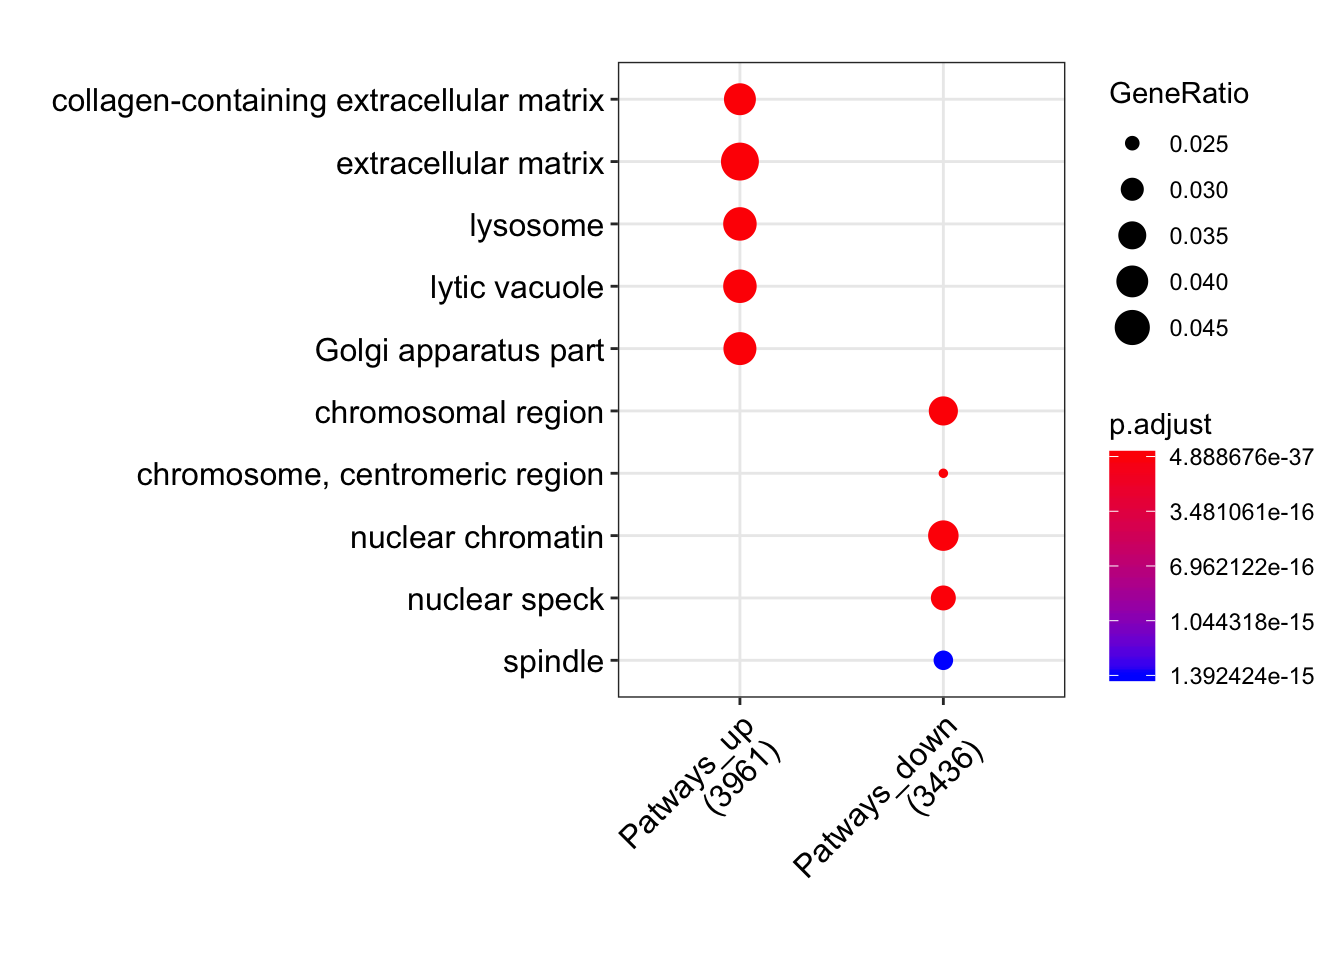
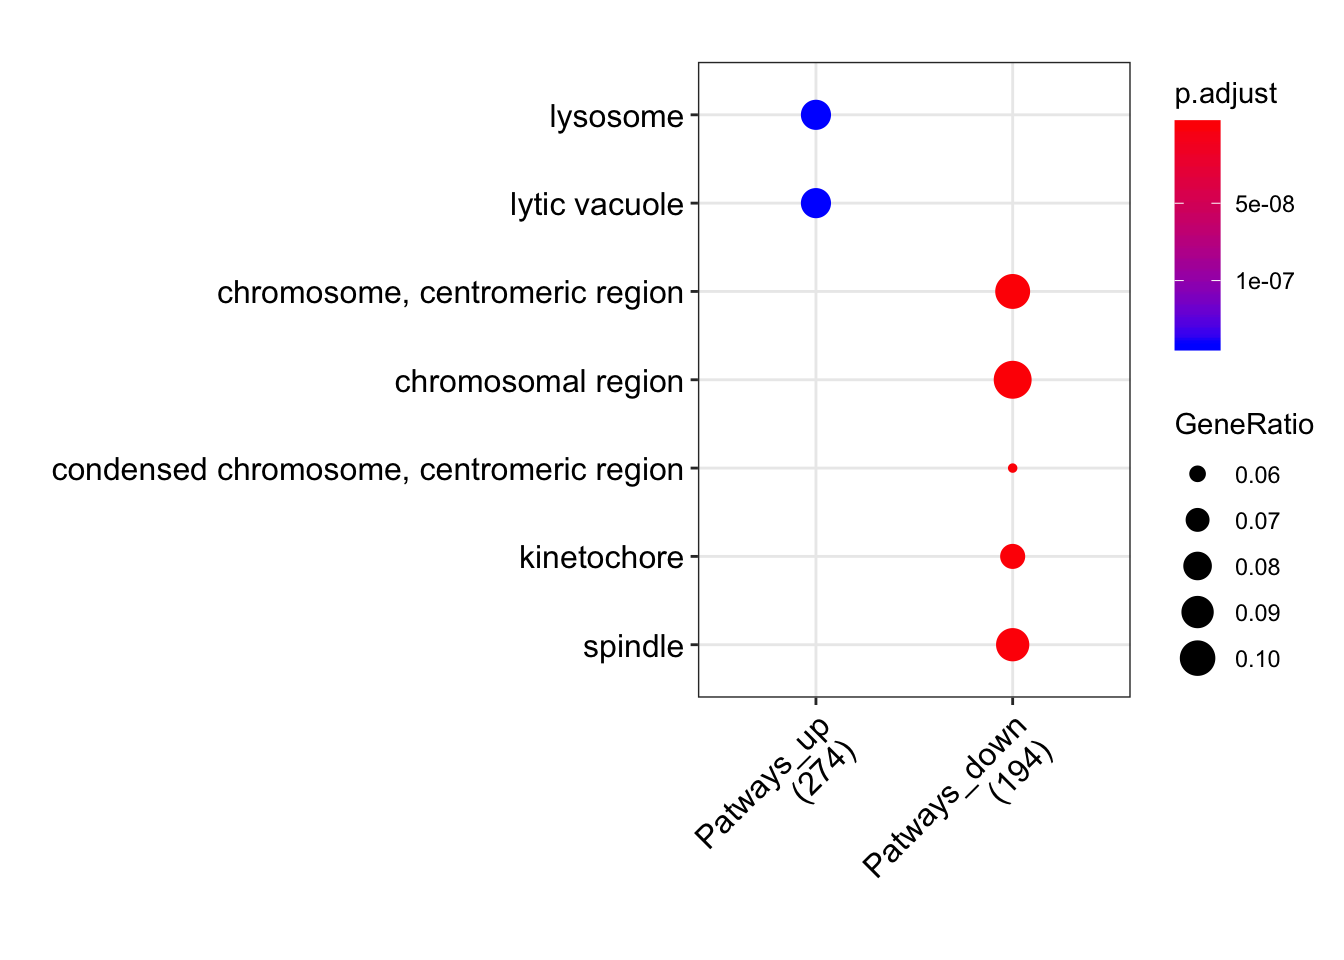
Updated legend on heatmaps and fixed CC pathway results for d9 vs day 5

diff --git a/Bulk_pathway_analysis.html b/Bulk_pathway_analysis.html
@@ -512,12 +512,12 @@ MinMax &lt;-<span class="st"> </span><span class="cf">function</span>(data, min,
   <span class="kw">return</span>(data2)
 }
 
-counts_scaled_sig_mef_id_upDown =<span class="st"> </span><span class="kw">MinMax</span>(counts_scaled_sig_mef_id_upDown, <span class="op">-</span><span class="fl">2.5</span>, <span class="fl">2.5</span>)
+counts_scaled_sig_mef_id_upDown =<span class="st"> </span><span class="kw">MinMax</span>(counts_scaled_sig_mef_id_upDown, <span class="op">-</span><span class="dv">2</span>, <span class="dv">2</span>)
 mycol &lt;-<span class="st"> </span><span class="kw">colorpanel</span>(<span class="dv">100</span>, <span class="st">&quot;purple&quot;</span>, <span class="st">&quot;black&quot;</span>, <span class="st">&quot;yellow&quot;</span>)
 plot_heatmaps &lt;-<span class="st"> </span><span class="cf">function</span>(x, x_dataFrame) {
   plot &lt;-<span class="st"> </span><span class="kw">pheatmap</span>(<span class="kw">as.matrix</span>(counts_scaled_sig_mef_id_upDown[<span class="kw">rownames</span>(x),<span class="kw">rownames</span>(x_dataFrame)]),
                                       <span class="dt">col=</span>mycol, <span class="dt">show_colnames =</span> F, <span class="dt">annotation_col=</span>x_dataFrame,
-                                      <span class="dt">labels_col =</span> x_dataFrame[,<span class="dv">1</span>], <span class="dt">cutree_rows =</span> <span class="dv">2</span>, <span class="dt">annotation_names_row =</span> F,
+                                      <span class="dt">labels_col =</span> x_dataFrame[,<span class="dv">1</span>], <span class="dt">cutree_rows =</span> <span class="dv">2</span>, <span class="dt">annotation_names_row =</span> F, <span class="dt">scale =</span> <span class="st">&quot;row&quot;</span>,
                                       <span class="dt">show_rownames =</span> F, <span class="dt">cluster_cols =</span> F,
                                       <span class="dt">clustering_distance_rows =</span> <span class="st">&quot;correlation&quot;</span>,
                                       <span class="dt">clustering_method =</span> <span class="st">&quot;ward.D2&quot;</span>, <span class="dt">annotation_names_col=</span>F)
@@ -703,7 +703,7 @@ d9_cDC1_BP &lt;-<span class="st"> </span><span class="kw">readRDS</span>(<span c
 <div class="sourceCode"><pre class="sourceCode r"><code class="sourceCode r"><span class="co">#d5_mef_KEGG &lt;- KEGG_pathway_analysis(d5_mef_cluster, name=&quot;d5_mef&quot;)</span>
 d5_mef_KEGG &lt;-<span class="st"> </span><span class="kw">readRDS</span>(<span class="st">&quot;compareClusters/d5_mef_KEGG.Rdata&quot;</span>)
 <span class="kw">dotplot</span>(d5_mef_KEGG, <span class="dt">showCategory=</span><span class="dv">5</span>) <span class="op">+</span><span class="st"> </span><span class="kw">theme</span>(<span class="dt">axis.text.x =</span> <span class="kw">element_text</span>(<span class="dt">angle =</span> <span class="dv">45</span>, <span class="dt">hjust =</span> <span class="dv">1</span>))</code></pre></div>
-<p><img src="Bulk_pathway_analysis_files/figure-html/unnamed-chunk-1-1.png" width="672" /></p>
+<p><img src="Bulk_pathway_analysis_files/figure-html/d5_mef_KEGG-1.png" width="672" /></p>
 </div>
 <div id="day-9-vs-day-5-5" class="section level3">
 <h3>Day 9 vs day 5</h3>
@@ -720,7 +720,8 @@ d9_d5_KEGG &lt;-<span class="st"> </span><span class="kw">readRDS</span>(<span c
 </div>
 <div id="day-9-vs-cdc1-5" class="section level3">
 <h3>Day 9 vs cDC1</h3>
-<div class="sourceCode"><pre class="sourceCode r"><code class="sourceCode r">d9_cDC1_KEGG &lt;-<span class="st"> </span><span class="kw">KEGG_pathway_analysis</span>(d9_cDC1_cluster, <span class="dt">name=</span><span class="st">&quot;d9_cDC1&quot;</span>)
+<div class="sourceCode"><pre class="sourceCode r"><code class="sourceCode r"><span class="co">#d9_cDC1_KEGG &lt;- KEGG_pathway_analysis(d9_cDC1_cluster, name=&quot;d9_cDC1&quot;)</span>
+d9_cDC1_KEGG &lt;-<span class="st"> </span><span class="kw">readRDS</span>(<span class="st">&quot;compareClusters/d9_cDC1_KEGG.Rdata&quot;</span>)
 <span class="kw">dotplot</span>(d9_cDC1_KEGG, <span class="dt">showCategory=</span><span class="dv">5</span>) <span class="op">+</span><span class="st"> </span><span class="kw">theme</span>(<span class="dt">axis.text.x =</span> <span class="kw">element_text</span>(<span class="dt">angle =</span> <span class="dv">45</span>, <span class="dt">hjust =</span> <span class="dv">1</span>))</code></pre></div>
 <p><img src="Bulk_pathway_analysis_files/figure-html/d9_cDC1_KEGG-1.png" width="672" /></p>
 </div>
